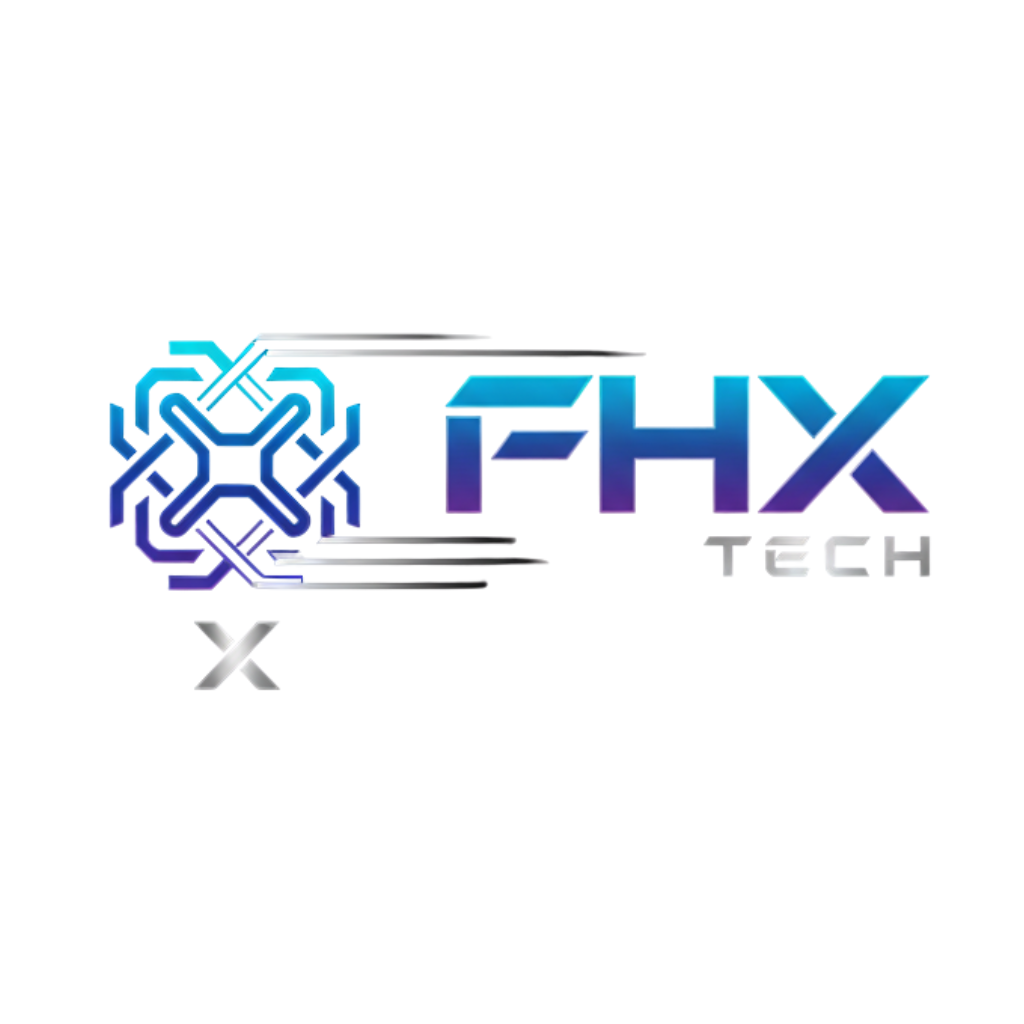
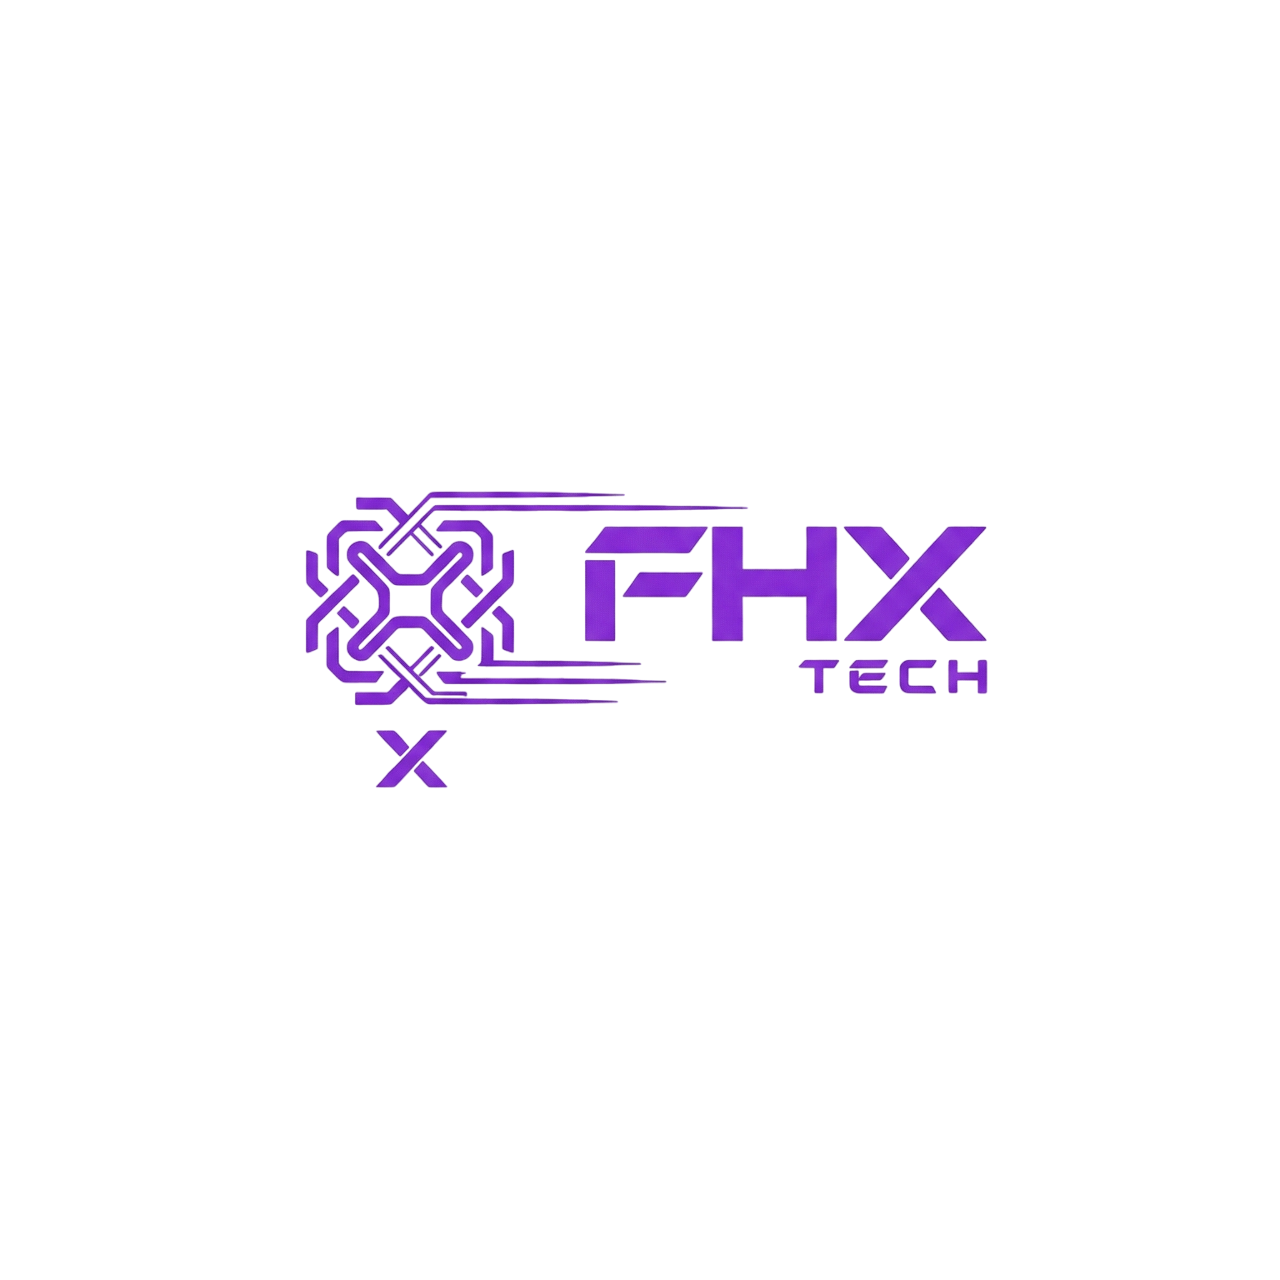
Atualiza site para assistência técnica em informática2

Changed region(s): [[0.0938, 0.3125, 0.9062, 0.6875]]

diff --git a/style.css b/style.css
@@ -4,8 +4,8 @@
     --color-dark-gray: #1a1a1a;
     --color-gray: #2a2a2a;
     --color-light-gray: #3a3a3a;
-    --color-blue: #00bfff;
-    --color-blue-dark: #007bff;
+    --color-blue: #8A2BE2;
+    --color-blue-dark: #6B21B3;
     --color-silver: #c0c0c0;
     --color-white: #ffffff;
     --color-whatsapp: #25D366;
@@ -18,11 +18,11 @@
     --transition-normal: 0.3s ease;
     --transition-slow: 0.5s ease;
     
-    --shadow-small: 0 2px 10px rgba(0, 191, 255, 0.1);
-    --shadow-medium: 0 5px 20px rgba(0, 191, 255, 0.2);
-    --shadow-large: 0 10px 40px rgba(0, 191, 255, 0.3);
+    --shadow-small: 0 2px 10px rgba(138, 43, 226, 0.1);
+    --shadow-medium: 0 5px 20px rgba(138, 43, 226, 0.2);
+    --shadow-large: 0 10px 40px rgba(138, 43, 226, 0.3);
     
-    --glow-blue: 0 0 20px rgba(0, 191, 255, 0.5);
+    --glow-blue: 0 0 20px rgba(138, 43, 226, 0.5);
     --glow-silver: 0 0 20px rgba(192, 192, 192, 0.3);
 }
 
@@ -83,7 +83,7 @@ ul {
     backdrop-filter: blur(10px);
     padding: 1rem 0;
     z-index: 9999;
-    border-bottom: 1px solid rgba(0, 191, 255, 0.1);
+    border-bottom: 1px solid rgba(138, 43, 226, 0.1);
     transition: var(--transition-normal);
 }
 
@@ -132,12 +132,12 @@ ul {
 
 .nav-logo:hover .logo-img {
     transform: scale(1.05);
-    filter: drop-shadow(0 0 30px rgba(0, 191, 255, 0.8));
+    filter: drop-shadow(0 0 30px rgba(138, 43, 226, 0.8));
 }
 
 .nav-logo:hover .logo-text {
     letter-spacing: 3px;
-    filter: drop-shadow(0 0 10px rgba(0, 191, 255, 0.6));
+    filter: drop-shadow(0 0 10px rgba(138, 43, 226, 0.6));
 }
 
 .nav-menu {
@@ -524,7 +524,7 @@ ul {
 .chip {
     padding: 0.6rem 1.3rem;
     background: var(--color-gray);
-    border: 1px solid rgba(0, 191, 255, 0.2);
+    border: 1px solid rgba(138, 43, 226, 0.2);
     border-radius: 25px;
     font-size: 0.9rem;
     color: rgba(255, 255, 255, 0.8);
@@ -535,7 +535,7 @@ ul {
 }
 
 .chip:hover {
-    background: rgba(0, 191, 255, 0.1);
+    background: rgba(138, 43, 226, 0.1);
     border-color: var(--color-blue);
     color: var(--color-blue);
     transform: translateY(-2px);
@@ -560,7 +560,7 @@ ul {
     width: 100%;
     padding: 1rem 1.5rem 1rem 3rem;
     background: var(--color-gray);
-    border: 1px solid rgba(0, 191, 255, 0.2);
+    border: 1px solid rgba(138, 43, 226, 0.2);
     border-radius: 30px;
     font-size: 1rem;
     color: var(--color-white);
@@ -605,7 +605,7 @@ ul {
     padding: 2rem;
     position: relative;
     overflow: hidden;
-    border: 1px solid rgba(0, 191, 255, 0.1);
+    border: 1px solid rgba(138, 43, 226, 0.1);
     transition: var(--transition-normal);
     opacity: 0;
     transform: translateY(30px);
@@ -619,7 +619,7 @@ ul {
 
 .solution-card:hover {
     transform: translateY(-8px);
-    box-shadow: 0 8px 30px rgba(0, 191, 255, 0.25);
+    box-shadow: 0 8px 30px rgba(138, 43, 226, 0.25);
     border-color: var(--color-blue);
 }
 
@@ -630,7 +630,7 @@ ul {
     left: 0;
     right: 0;
     bottom: 0;
-    background: linear-gradient(135deg, rgba(0, 191, 255, 0.05), transparent);
+    background: linear-gradient(135deg, rgba(138, 43, 226, 0.05), transparent);
     opacity: 0;
     transition: var(--transition-normal);
     pointer-events: none;
@@ -697,9 +697,9 @@ ul {
 }
 
 .badge-run {
-    background: rgba(0, 191, 255, 0.15);
+    background: rgba(138, 43, 226, 0.15);
     color: var(--color-blue);
-    border: 1px solid rgba(0, 191, 255, 0.3);
+    border: 1px solid rgba(138, 43, 226, 0.3);
 }
 
 .badge-tech {
@@ -747,7 +747,7 @@ ul {
     text-align: center;
     margin-top: 4rem;
     padding-top: 3rem;
-    border-top: 1px solid rgba(0, 191, 255, 0.1);
+    border-top: 1px solid rgba(138, 43, 226, 0.1);
 }
 
 .footer-message {
@@ -783,7 +783,7 @@ ul {
     display: flex;
     align-items: center;
     gap: 1rem;
-    border: 1px solid rgba(0, 191, 255, 0.1);
+    border: 1px solid rgba(138, 43, 226, 0.1);
     transition: var(--transition-normal);
 }
 
@@ -855,7 +855,7 @@ ul {
     padding: 1.5rem;
     background: var(--color-gray);
     border-radius: 15px;
-    border: 1px solid rgba(0, 191, 255, 0.1);
+    border: 1px solid rgba(138, 43, 226, 0.1);
     transition: var(--transition-normal);
 }
 
@@ -908,7 +908,7 @@ ul {
 
 /* Box de Indicação */
 .referral-box {
-    background: linear-gradient(135deg, rgba(0, 191, 255, 0.1), rgba(192, 192, 192, 0.05));
+    background: linear-gradient(135deg, rgba(138, 43, 226, 0.1), rgba(192, 192, 192, 0.05));
     border: 2px solid var(--color-blue);
     border-radius: 20px;
     padding: 3rem;
@@ -924,7 +924,7 @@ ul {
     right: -50%;
     width: 200%;
     height: 200%;
-    background: linear-gradient(45deg, transparent, rgba(0, 191, 255, 0.1), transparent);
+    background: linear-gradient(45deg, transparent, rgba(138, 43, 226, 0.1), transparent);
     transform: rotate(45deg);
     animation: shine 3s ease infinite;
 }
@@ -967,7 +967,7 @@ ul {
 .footer {
     background: var(--color-black);
     padding: 3rem 0 2rem;
-    border-top: 1px solid rgba(0, 191, 255, 0.1);
+    border-top: 1px solid rgba(138, 43, 226, 0.1);
 }
 
 .footer-content {
@@ -1009,7 +1009,7 @@ ul {
     align-items: center;
     justify-content: center;
     transition: var(--transition-normal);
-    border: 1px solid rgba(0, 191, 255, 0.2);
+    border: 1px solid rgba(138, 43, 226, 0.2);
 }
 
 .footer-social a:hover {
@@ -1063,11 +1063,11 @@ ul {
 @keyframes pulse {
     0%, 100% {
         transform: scale(1);
-        filter: drop-shadow(0 0 20px rgba(0, 191, 255, 0.5));
+        filter: drop-shadow(0 0 20px rgba(138, 43, 226, 0.5));
     }
     50% {
         transform: scale(1.1);
-        filter: drop-shadow(0 0 40px rgba(0, 191, 255, 1));
+        filter: drop-shadow(0 0 40px rgba(138, 43, 226, 1));
     }
 }
 
@@ -1112,7 +1112,7 @@ ul {
         padding: 2rem;
         gap: 1.5rem;
         transition: var(--transition-normal);
-        border-top: 1px solid rgba(0, 191, 255, 0.2);
+        border-top: 1px solid rgba(138, 43, 226, 0.2);
     }
 
     .nav-menu.active {

diff --git a/script.js b/script.js
@@ -412,10 +412,10 @@ window.addEventListener('resize', () => {
 });
 
 // ===== CONSOLE ART (EASTER EGG ADICIONAL) =====
-console.log('%c🔧 FHX Assistência Técnica', 'font-size: 30px; color: #00bfff; font-weight: bold; text-shadow: 2px 2px 4px rgba(0, 191, 255, 0.5);');
+console.log('%c🔧 FHX Assistência Técnica', 'font-size: 30px; color: #8A2BE2; font-weight: bold; text-shadow: 2px 2px 4px rgba(138, 43, 226, 0.5);');
 console.log('%cTecnologia funcionando do jeito certo 💻', 'font-size: 16px; color: #c0c0c0;');
-console.log('%cCuritiba - PR', 'font-size: 12px; color: #888;');
-console.log('%cDigite "fhx" em qualquer lugar da página para ver uma surpresa! 😉', 'font-size: 12px; color: #00bfff; font-style: italic;');
+console.log('%cSão José dos Pinhais - PR', 'font-size: 12px; color: #888;');
+console.log('%cDigite "fhx" em qualquer lugar da página para ver uma surpresa! 😉', 'font-size: 12px; color: #8A2BE2; font-style: italic;');
 
 // ===== EXPORTAR FUNÇÕES (SE NECESSÁRIO) =====
 window.FHX = {
